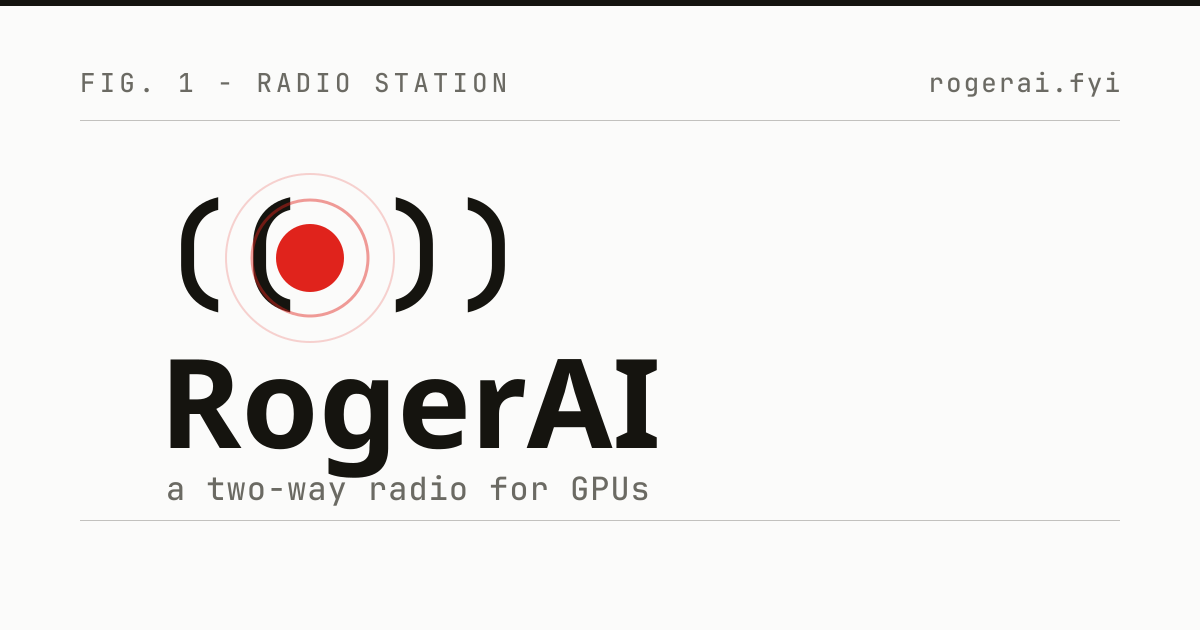
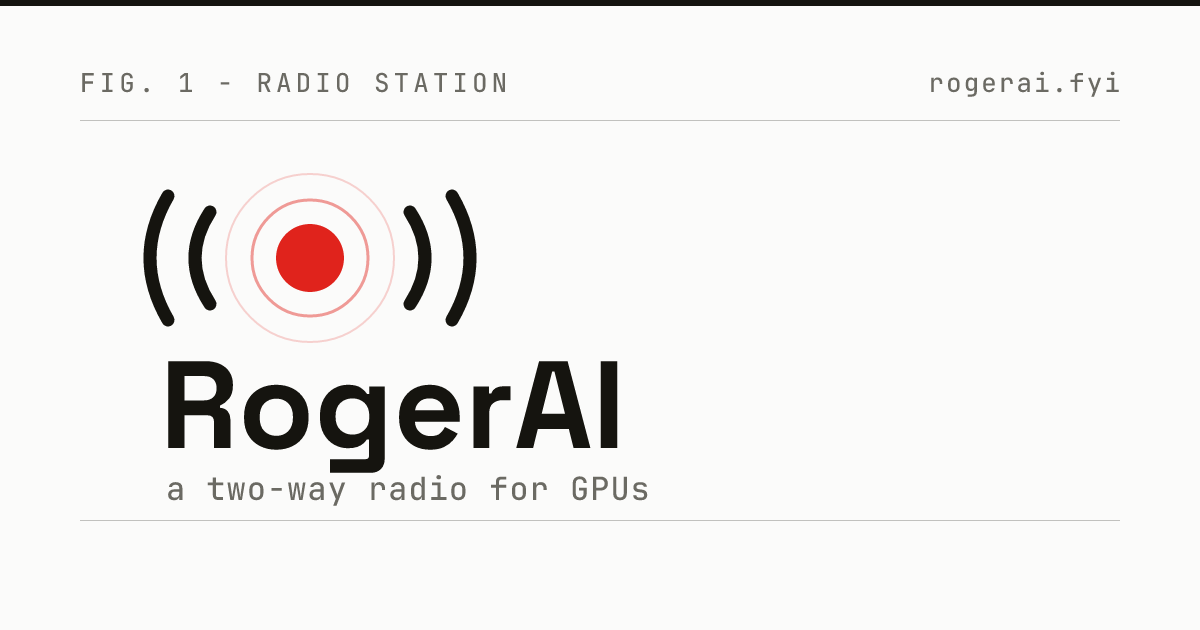
web/seo: canonical + sitemap + structured data (SEO baseline) + centered og mark (#18)
* web/seo: canonical on every page, build-time sitemap.xml, Organization/WebSite/SoftwareApplication JSON-LD

SEO baseline for rogerai.fyi (audit + the r/micro_saas growth playbook):
- build.mjs now injects EXACTLY ONE self-referential <link rel=canonical> per page
  (og=1/og=post pages keep their own - no duplicate-canonical bug), and generates
  dist/sitemap.xml from the indexable pages (app/account pages excluded via NOINDEX).
- head partial emits Organization + WebSite JSON-LD site-wide + SoftwareApplication
  on the homepage - rich results + AI-engine (AEO) citations. Inert data, no CSP change.
- Verified: 22 pages build, 1 canonical each, sitemap 10 urls, JSON-LD valid, bots
  still see full <h1>/<title>.

Follow-ups (need your input / dashboard): Cloudflare Web Analytics beacon token +
CSP line; Google Search Console + Bing Webmaster verification; the content/blog
engine on broadcasts.html. SEO skill added at .claude/skills/seo/.

* web: center the beacon mark on the og card (vector, font-independent)

The (( o )) mark used font glyphs for the parens + a fixed dot cx, so with Space
Grotesk substituted the dot rendered off-center. Rebuilt the mark as symmetric
vector arcs about x=310, so the red dot is dead-centered and it renders
identically everywhere. Regenerated og.png.

* web/seo: derive sitemap noindex-exclusion from rendered robots meta (pre-push audit fix)

The hardcoded NOINDEX list drifted from the actual per-page robots directive -
[…]

diff --git a/web/src/broadcasts-run-local-llm.html b/web/src/broadcasts-run-local-llm.html
@@ -1,0 +1,168 @@
+<!DOCTYPE html>
+<!-- Field-guide broadcast. SEO/AEO format: Quick Answer + question-H2s + FAQ schema + internal
+     links to /models, /bands, the install command. Registered in build.mjs CSS_BUNDLES and listed
+     at the top of broadcasts.html as BROADCAST 002. -->
+<html lang="en">
+<head>
+  <!-- include: head.html title="How to run a local LLM on your own GPU (free)" desc="A plain-English guide to running a local LLM on your own GPU for free: what hardware you need, which open models to pick, how to use it from any OpenAI-compatible app, and how to tune in to a community GPU when yours isn't enough." theme=external og=post ogtype=article ogtitle="How to run a local LLM on your own GPU (free)" ogdesc="What you need, which models your GPU can run, and how to use a local LLM from any OpenAI-compatible app - free, no subscription." ogurl="https://rogerai.fyi/broadcasts-run-local-llm.html" ogimage="https://rogerai.fyi/og.png" -->
+</head>
+<body>
+
+  <div class="rail" aria-hidden="true">
+    <span class="rail__head">RogerAI · Field Guide</span>
+    <span class="rail__rev"><!-- include: orange3d.html id=rail --> Rev. 2026.07 · ((•))</span>
+  </div>
+
+  <!-- include: nav.html variant=marketing home=/ anchors=/ scrolled=1 -->
+
+  <main id="top">
+
+  <article class="bc-post">
+    <div class="wrap bc-post__wrap">
+
+      <a class="bc-post__back mono" href="/broadcasts.html">&larr; all broadcasts</a>
+
+      <header class="bc-post__head" data-reveal>
+        <span class="hero__eyebrow">
+          <span class="onair" aria-hidden="true">((<span class="onair__dot">&bull;</span>))</span>
+          <span class="hero__callsign">BROADCAST 002 &middot; FIELD GUIDE</span>
+          <span class="hero__sep" aria-hidden="true">&middot;</span>
+          <time datetime="2026-07-05">JULY 2026</time>
+        </span>
+        <h1 class="bc-post__title">How to run a local LLM on your own GPU</h1>
+        <p class="bc-post__dek">
+          You already own the compute. Here is the plain-English way to turn your GPU into a
+          private, free AI endpoint - what you need, which models fit, and how to plug it into
+          the apps you already use.
+        </p>
+      </header>
+
+      <!-- QUICK ANSWER: 40-60 words, answered directly. AI engines pull this near-verbatim. -->
+      <blockquote class="mono" style="margin:2rem 0;padding:1rem 1.25rem;border-left:3px solid #E0231C;background:rgba(224,35,28,.05);border-radius:0 6px 6px 0;line-height:1.6;" data-reveal>
+        <b>Quick answer.</b> To run a local LLM on your own GPU, install a runtime (Ollama,
+        llama.cpp, or LM Studio), download an open model like gpt-oss, Qwen, or Llama, and point
+        any app at its OpenAI-compatible endpoint. A 12-16&nbsp;GB GPU comfortably runs a strong
+        7-14B model; for larger models, or to skip setup, tune in to a community GPU for free.
+      </blockquote>
+
+      <div class="bc-post__body">
+
+        <p class="bc-post__lead" data-reveal>
+          Running a large language model on your own machine means no subscription, no per-token
+          meter, and no prompts leaving your control. The tooling got easy in 2026: if you have a
+          gaming GPU, you can be chatting with an open model in a few minutes.
+        </p>
+
+        <section class="bc-sec" data-reveal>
+          <span class="bc-sec__no">&sect;1 &middot; The basics</span>
+          <h2>What do you need to run a local LLM?</h2>
+          <p>
+            Three things: a <b>GPU with enough VRAM</b> (video memory is the real limit, not the
+            chip speed), a <b>runtime</b> that loads the model and speaks the OpenAI API, and an
+            <b>open-weights model</b> file. That is it - no cloud account, no key.
+          </p>
+          <ul class="bc-dial">
+            <li><b>GPU / VRAM.</b> 8&nbsp;GB runs a 7-8B model; 12-16&nbsp;GB runs 13-14B; 24&nbsp;GB runs ~32B or gpt-oss-20b; 48&nbsp;GB+ runs a 70B or gpt-oss-120b quantized.</li>
+            <li><b>Runtime.</b> <b>Ollama</b> (one-command, easiest), <b>LM Studio</b> (a friendly app), or <b>llama.cpp</b> (max control). All expose an OpenAI-compatible <code>/v1/chat/completions</code>.</li>
+            <li><b>Model.</b> Open weights you download once: gpt-oss, Qwen, Llama, Gemma, Mistral. Quantized (Q4/Q5) versions shrink VRAM with little quality loss.</li>
+          </ul>
+        </section>
+
+        <section class="bc-sec" data-reveal>
+          <span class="bc-sec__no">&sect;2 &middot; The free path</span>
+          <h2>How do you run a local LLM for free?</h2>
+          <p>
+            Every piece above is free and open source. The fastest route with Ollama:
+          </p>
+          <ul class="bc-dial">
+            <li>Install the runtime, then pull a model: <code>ollama run qwen2.5:7b</code></li>
+            <li>It downloads once and drops you into a chat - fully offline after that.</li>
+            <li>Want a bigger brain? <code>ollama run gpt-oss:20b</code> if your VRAM allows.</li>
+          </ul>
+          <p>
+            The only cost is the electricity your GPU already draws. There is no token meter and
+            no monthly bill.
+          </p>
+        </section>
+
+        <section class="bc-sec" data-reveal>
+          <span class="bc-sec__no">&sect;3 &middot; Sizing</span>
+          <h2>Which models can your GPU actually run?</h2>
+          <p>
+            Match the model's parameter count (and quantization) to your VRAM. As a rule of thumb
+            for a Q4 quant: budget roughly 0.6&nbsp;GB of VRAM per billion parameters, plus a couple
+            of GB for context. A 24&nbsp;GB card handles a 32B model or a fast 20B; a 12&nbsp;GB card
+            is happiest around 13-14B. See what real operators are actually serving on the
+            <a href="/models.html">RogerAI model directory</a> for live examples and prices.
+          </p>
+        </section>
+
+        <section class="bc-sec" data-reveal>
+          <span class="bc-sec__no">&sect;4 &middot; Wiring it up</span>
+          <h2>How do you use your local model from other apps?</h2>
+          <p>
+            Because the runtime speaks the OpenAI API, almost any tool works. Point it at your
+            local endpoint (usually <code>http://localhost:11434/v1</code> for Ollama) with any
+            placeholder key. Coding assistants like <b>aider</b>, chat UIs like <b>open-webui</b>,
+            and your own code (the OpenAI SDK with a changed <code>base_url</code>) all just work -
+            no code changes beyond the URL.
+          </p>
+        </section>
+
+        <section class="bc-sec" data-reveal>
+          <span class="bc-sec__no">&sect;5 &middot; When yours isn't enough</span>
+          <h2>What if your GPU is too small - or you have one to spare?</h2>
+          <p>
+            Two common cases, one tool. If your GPU can't fit the model you want, you can
+            <b>tune in to someone else's</b>: <code>roger use gpt-oss-120b</code> gives you a local
+            OpenAI-compatible proxy backed by a community GPU, with free models on the
+            <a href="/bands.html">band</a> right now. And if you have idle GPU, you can
+            <b>put it on the air</b> with <code>roger share</code> - free for the community, or
+            priced to earn. It is the same OpenAI endpoint, just backed by real hardware you or a
+            neighbor owns. The full walkthrough is in the <a href="/manual.html">operating manual</a>.
+          </p>
+        </section>
+
+        <section class="bc-sec" data-reveal>
+          <span class="bc-sec__no">&sect;6 &middot; FAQ</span>
+          <h2>Frequently asked questions</h2>
+          <dl class="bc-faq">
+            <dt><b>Is running a local LLM really free?</b></dt>
+            <dd>Yes. The runtimes and open models are free and open source; you only pay for the electricity your GPU already uses. There is no subscription or per-token charge.</dd>
+            <dt><b>What GPU do I need for a local LLM?</b></dt>
+            <dd>Any GPU with 8&nbsp;GB+ of VRAM runs a capable 7-8B model. 12-16&nbsp;GB runs 13-14B models comfortably; 24&nbsp;GB runs ~32B or a fast 20B; 48&nbsp;GB+ handles 70B-class or gpt-oss-120b quantized.</dd>
+            <dt><b>Can I run a local LLM without a GPU?</b></dt>
+            <dd>You can run small models on CPU, but it is slow. A better option is to keep the same OpenAI-compatible workflow and tune in to a community GPU - free models are available on RogerAI.</dd>
+            <dt><b>How do I connect a local LLM to my apps?</b></dt>
+            <dd>Point the app at your runtime's OpenAI-compatible URL (e.g. <code>http://localhost:11434/v1</code>) with any placeholder API key. Tools like aider, open-webui, and the OpenAI SDK need only that base-URL change.</dd>
+            <dt><b>What is the best free local LLM right now?</b></dt>
+            <dd>It depends on your VRAM: Qwen and Llama variants at 7-14B are excellent all-rounders, and gpt-oss (20B / 120B) is strong if you have the memory. Check the <a href="/models.html">model directory</a> for what people are actually running.</dd>
+            <dt><b>How do I run a bigger model than my GPU allows?</b></dt>
+            <dd>Use a smaller quantization, or route the request to a bigger GPU without leaving your workflow: <code>roger use &lt;model&gt;</code> proxies to a community node over the same OpenAI API, so your app is unchanged.</dd>
+          </dl>
+        </section>
+
+        <div class="man-note man-note--live">
+          <span class="man-note__tag">roger that</span>
+          Skip the setup or share your GPU - install the set and tune in:
+          <code>curl -fsSL https://rogerai.fyi/install.sh | sh</code>
+        </div>
+
+      </div>
+
+    </div>
+  </article>
+
+  </main>
+
+  <!-- include: footer.html anchors=/ -->
+
+  <!-- FAQPage structured data: mirrors the visible FAQ above (SERP real-estate + AI citations).
+       Inert JSON-LD, allowed under the strict CSP. -->
+  <script type="application/ld+json">{"@context":"https://schema.org","@type":"FAQPage","mainEntity":[{"@type":"Question","name":"Is running a local LLM really free?","acceptedAnswer":{"@type":"Answer","text":"Yes. The runtimes and open models are free and open source; you only pay for the electricity your GPU already uses. There is no subscription or per-token charge."}},{"@type":"Question","name":"What GPU do I need for a local LLM?","acceptedAnswer":{"@type":"Answer","text":"Any GPU with 8 GB+ of VRAM runs a capable 7-8B model. 12-16 GB runs 13-14B comfortably; 24 GB runs ~32B or a fast 20B; 48 GB+ handles 70B-class or gpt-oss-120b quantized."}},{"@type":"Question","name":"Can I run a local LLM without a GPU?","acceptedAnswer":{"@type":"Answer","text":"You can run small models on CPU, but it is slow. A better option is to keep the same OpenAI-compatible workflow and tune in to a community GPU - free models are available on RogerAI."}},{"@type":"Question","name":"How do I connect a local LLM to my apps?","acceptedAnswer":{"@type":"Answer","text":"Point the app at your runtime's OpenAI-compatible URL (for example http://localhost:11434/v1) with any placeholder API key. Tools like aider, open-webui, and the OpenAI SDK need only that base-URL change."}},{"@type":"Question","name":"What is the best free local LLM right now?","acceptedAnswer":{"@type":"Answer","text":"It depends on your VRAM: Qwen and Llama variants at 7-14B are excellent all-rounders, and gpt-oss (20B or 120B) is strong if you have the memory. Check the RogerAI model directory for what people are actually running."}},{"@type":"Question","name":"How do I run a bigger model than my GPU allows?","acceptedAnswer":{"@type":"Answer","text":"Use a smaller quantization, or route the request to a bigger GPU without leaving your workflow: roger use <model> proxies to a community node over the same OpenAI API, so your app is unchanged."}}]}</script>
+
+  <script src="js/site.js" defer></script>
+  <script src="js/session.js" defer></script>
+  <script src="js/promo.js" defer></script>
+</body>
+</html>

diff --git a/web/src/broadcasts.html b/web/src/broadcasts.html
@@ -92,6 +92,24 @@
       <ol class="bc-list" data-reveal data-reveal-delay="80">
 
         <li class="bc-row">
+          <a class="bc-row__link" href="/broadcasts-run-local-llm.html">
+            <span class="bc-row__lead" aria-hidden="true">
+              <span class="ember">&#9673;</span>
+              <b class="bc-row__no">BROADCAST 002</b>
+            </span>
+            <span class="bc-row__meta">
+              <time class="bc-row__date" datetime="2026-07-05">JULY 2026 &middot; FIELD GUIDE</time>
+            </span>
+            <span class="bc-row__body">
+              <span class="bc-row__title">How to run a local LLM on your own GPU</span>
+              <span class="bc-row__dek">What you need, which models your GPU can
+                run, and how to use a local LLM from any OpenAI-compatible app - free.</span>
+            </span>
+            <span class="bc-row__go" aria-hidden="true">tune in &rarr;</span>
+          </a>
+        </li>
+
+        <li class="bc-row">
           <a class="bc-row__link" href="/broadcasts-independence-v5.html">
             <span class="bc-row__lead" aria-hidden="true">
               <span class="ember">◉</span>

diff --git a/web/src/_partials/head.html b/web/src/_partials/head.html
@@ -97,6 +97,14 @@
   <meta name="twitter:image" content="{{ogimage}}" />
 {{/if}}
 
+  <!-- Structured data (JSON-LD): Organization + WebSite site-wide for rich results AND AI-engine
+       citations. It is inert DATA, not an executable script, so the strict CSP allows it without a
+       hash. SoftwareApplication is added only on the marketing homepage (og=1). -->
+  <script type="application/ld+json">{"@context":"https://schema.org","@graph":[{"@type":"Organization","@id":"https://rogerai.fyi/#org","name":"RogerAI","url":"https://rogerai.fyi/","logo":"https://rogerai.fyi/og.png","description":"A two-way radio for GPUs: put your local model on the air, or tune in to community GPUs. OpenAI-compatible."},{"@type":"WebSite","@id":"https://rogerai.fyi/#site","name":"RogerAI","url":"https://rogerai.fyi/","publisher":{"@id":"https://rogerai.fyi/#org"}}]}</script>
+{{#if og=1}}
+  <script type="application/ld+json">{"@context":"https://schema.org","@type":"SoftwareApplication","name":"RogerAI (roger CLI)","applicationCategory":"DeveloperApplication","operatingSystem":"macOS, Linux, Windows","offers":{"@type":"Offer","price":"0","priceCurrency":"USD"},"description":"Install roger to put your local GPU model on the air or use community models over an OpenAI-compatible endpoint. Free models available.","url":"https://rogerai.fyi/","publisher":{"@id":"https://rogerai.fyi/#org"}}</script>
+{{/if}}
+
   <!-- favicon: the RogerAI broadcast-tower beacon mark stays the default -->
   <link rel="icon" href="favicon.svg" type="image/svg+xml" />
   <link rel="mask-icon" href="favicon.svg" color="#E0231C" />

diff --git a/web/SEO-SETUP.md b/web/SEO-SETUP.md
@@ -1,0 +1,90 @@
+# SEO setup - the things only you can do
+
+The code side (canonical, sitemap, structured data, the first content article) ships in
+**PR #18**. These are the steps that need a dashboard, DNS, or a decision - I can't do them from
+the CLI. Do them in this order; the first two are the high-leverage ones.
+
+---
+
+## 0. Merge PR #18 (deploys everything)
+<https://github.com/rogerai-fyi/roger/pull/18> - merging it deploys the SEO baseline + the first
+article. The web app rebuilds `node build.mjs` on deploy. After it's live, confirm:
+`https://rogerai.fyi/sitemap.xml` returns XML (not a 404) and
+`https://rogerai.fyi/broadcasts-run-local-llm.html` loads.
+
+---
+
+## 1. Google Search Console  (the single most important step - free, no code)
+This is what powers the weekly gap-analysis loop. Without it you're flying blind.
+
+1. Go to <https://search.google.com/search-console> and add a **Domain** property: `rogerai.fyi`.
+2. It gives you a **TXT record**. Add it in **Cloudflare -> DNS**: Type `TXT`, Name `@`, Content =
+   the `google-site-verification=...` string Google shows. Save, then click **Verify** in GSC.
+3. In GSC left nav -> **Sitemaps** -> submit `https://rogerai.fyi/sitemap.xml`.
+4. Wait a few days for data to appear (Performance report). Then run the weekly loop (see bottom).
+
+## 2. Bing Webmaster Tools  (do NOT skip - free)
+A real case study lost ~90% of Bing traffic for weeks by ignoring this.
+1. <https://www.bing.com/webmasters> -> add site `https://rogerai.fyi`.
+2. Easiest: **Import from Google Search Console** (one click once #1 is done). Otherwise verify via
+   the same DNS-TXT method.
+3. Submit the sitemap: `https://rogerai.fyi/sitemap.xml`.
+
+---
+
+## 3. Cloudflare Web Analytics  (privacy-first traffic numbers - cookieless, no banner)
+This needs a CSP change AND an edge apply - and they must go together (the `edge-drift` CI check
+fails if `_headers` and the live edge disagree). That's why the CSP is NOT pre-baked into the PR.
+When you're ready:
+1. **Cloudflare dashboard -> Analytics & Logs -> Web Analytics -> Add a site** -> `rogerai.fyi`.
+   Choose the **Automatic setup** (it injects the beacon at the edge - no code needed).
+2. **Allow the beacon in the CSP.** In `web/src/_headers`, add `https://static.cloudflareinsights.com`
+   to `script-src` and `https://cloudflareinsights.com` to `connect-src`. Then apply it to the edge:
+   ```
+   CF_API_TOKEN=... node web/scripts/cf-edge.mjs --apply
+   ```
+   (This mirrors `web/src/_headers` to the Cloudflare edge - see `web/EDGE.md`. Commit the `_headers`
+   change so the `edge-drift` check stays green.)
+3. Verify: open the site, then check the Web Analytics dashboard shows a visit within a minute. If
+   the browser console logs a CSP block for `static.cloudflareinsights.com`, the edge apply in step 2
+   didn't run.
+
+> Prefer GA4 instead? Not recommended here (it needs a GDPR cookie-consent banner + more CSP
+> surface + Google tracking, off-brand for a content-blind product). If you truly want it, tell me
+> and I'll wire gtag + the CSP + a consent banner.
+
+---
+
+## 4. robots.txt `Sitemap:` line  (optional - CF-managed)
+Your robots.txt is served/managed by **Cloudflare** (the AI content-signals policy), not the repo,
+so it has no `Sitemap:` line. Add one so crawlers auto-discover the sitemap:
+- Cloudflare dashboard -> the setting that manages robots.txt (AI Audit / robots.txt) -> add:
+  `Sitemap: https://rogerai.fyi/sitemap.xml`
+- This is optional: submitting the sitemap directly in GSC + Bing (steps 1-2) already covers it.
+
+---
+
+## 5. One decision: should Privacy + Terms be indexable?
+They're currently `noindex` (so they're excluded from the sitemap). Most sites **want** Privacy and
+Terms indexed - Google reads them as legitimacy/trust (E-E-A-T) signals. If you agree, tell me and
+I'll flip `robots` on `privacy.html` + `tos.html` (and maybe `security.html`); they'll then be
+crawled and appear in the sitemap automatically. No dashboard needed - it's a one-line code change
+per page.
+
+---
+
+## The weekly loop (once GSC has ~1-2 weeks of data)
+This is the engine that compounds. ~30 min/week:
+1. In GSC -> Performance -> export the **Queries** table (impressions + average position).
+2. Hand it to me (or any LLM) and ask for: keyword **gaps** (impressions, no dedicated page),
+   **cannibalization** (two pages competing for one query), and **emerging** queries.
+3. I write 3-5 new broadcast articles targeting the top gaps (same format as
+   `broadcasts-run-local-llm.html`: Quick Answer + question H2s + FAQPage schema + internal links).
+4. Merge -> deploy -> in GSC use **URL Inspection -> Request indexing** on each new URL.
+Repeat weekly. Each ranked article feeds the next week's impressions.
+
+## To add another article yourself
+`cp web/src/broadcasts-run-local-llm.html web/src/broadcasts-<slug>.html`, register it in
+`web/build.mjs` CSS_BUNDLES, add a `<li class="bc-row">` at the top of `web/src/broadcasts.html`,
+update the head title/desc + the H1/Quick-Answer/FAQ. The sitemap + canonical are automatic.
+Run `bash .claude/skills/seo/scripts/bot-crawl-check.sh` after deploy to confirm bots see it.